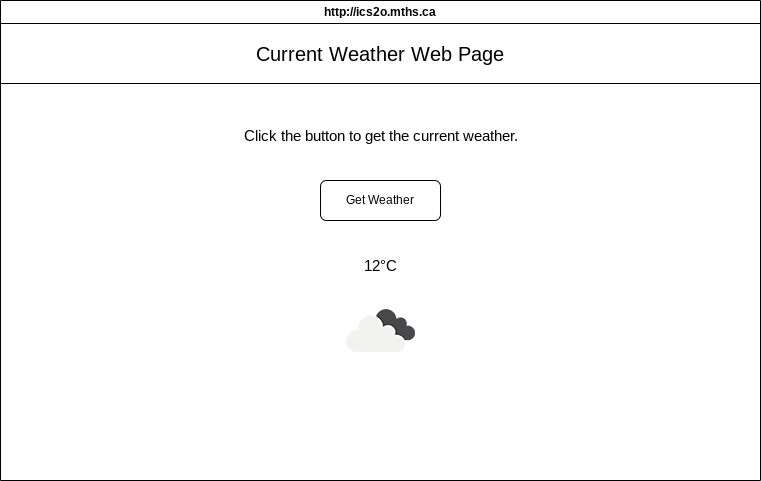
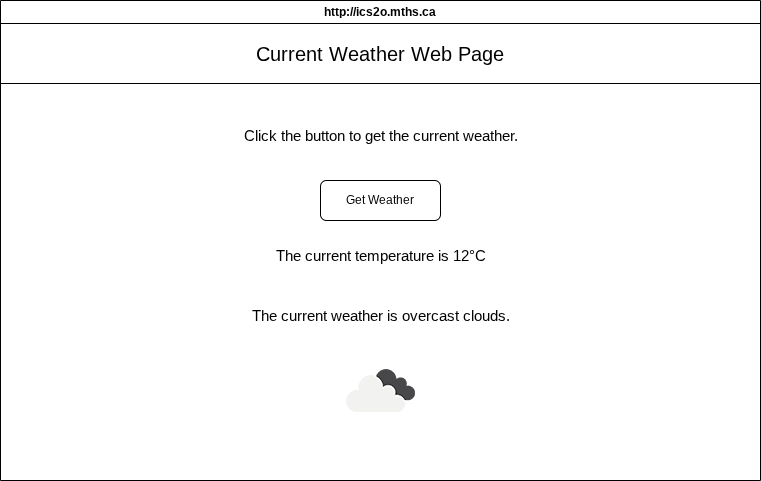
Created weather program

Changed region(s): [[0.3325, 0.6237, 0.6649, 0.7173], [0.3627, 0.499, 0.6347, 0.5613], [0.4836, 0.7484, 0.544, 0.842]]

diff --git a/index.html b/index.html
@@ -1,9 +1,50 @@
 <!DOCTYPE html>
-<html>
-  <head>
-    <title>Title</title>
-  </head>
-  <body>
-    <p>Paragraph</p>
-  </body>
+<!-- ICS2O-Unit6-03-JS -->
+<html lang="en-ca">
+
+<head>
+  <meta charset="utf-8" />
+  <meta name="description" content="Current Weather Web Page" />
+  <meta name="keywords" content="mths, icd2o" />
+  <meta name="author" content="Bain Liao" />
+  <meta name="viewport" content="width=device-width, initial-scale=1.0" />
+  <link rel="stylesheet" href="https://fonts.googleapis.com/icon?family=Material+Icons" />
+  <link rel="stylesheet" href="https://code.getmdl.io/1.3.0/material.light_blue-orange.min.css" />
+  <link rel="stylesheet" href="./css/style.css" />
+  <link rel="apple-touch-icon" sizes="180x180" href="./apple-touch-icon.png" />
+  <link rel="icon" type="image/png" sizes="32x32" href="./favicon-32x32.png" />
+  <link rel="icon" type="image/png" sizes="16x16" href="./favicon-16x16.png" />
+  <link rel="manifest" href="./site.webmanifest" />
+  <title>Current Weather Web Page</title>
+</head>
+
+<body>
+  <script defer src="https://code.getmdl.io/1.3.0/material.min.js"></script>
+  <script src="./js/script.js"></script>
+  <div class="mdl-layout mdl-js-layout mdl-layout--fixed-header">
+    <header class="mdl-layout__header">
+      <div class="mdl-layout__header-row">
+        <span class="mdl-layout-title">Current Weather Web Page</span>
+      </div>
+    </header>
+    <main class="mdl-layout__content">
+      <div class="page-content">Click the button to get the current weather.
+      <br />
+      <br />
+        <form action="#">
+          <!-- Accent-colored raised button with ripple -->
+          <button class="mdl-button mdl-js-button mdl-button--raised mdl-js-ripple-effect mdl-button--accent"
+            onclick="getWeather()" type="button">
+            Get Weather
+          </button>
+        </form>
+      </div>
+      <br />
+      <div class="page-content">
+        <div id="current-weather"></div>
+      </div>
+    </main>
+  </div>
+</body>
+
 </html>

diff --git a/js/script.js b/js/script.js
@@ -1,5 +1,42 @@
 // Copyright (c) 2020 Mr. Coxall All rights reserved
 //
-// Created by: Mr. Coxall
-// Created on: Sep 2020
+// Created by: Bain Liao
+// Created on: May 2025
 // This file contains the JS functions for index.html
+
+"use strict"
+
+/**
+ * This function gets the Weather.
+ * The "async" is there because it will take time for the internet to return the value
+ */
+async function getWeather() {
+  // the "try" is here because the internet may not be working
+  // it is like an "if ... else" statement"
+  try {
+    const resultJSON = await fetch(
+      "https://api.openweathermap.org/data/2.5/weather?lat=45.4211435&lon=-75.6900574&appid=fe1d80e1e103cff8c6afd190cad23fa5"
+    )
+    const jsonData = await resultJSON.json()
+    console.log(jsonData)
+    const weatherDescription = jsonData.weather[0].description
+    const weatherIconId = jsonData.weather[0].icon
+    const weatherIconUrl =
+      "https://openweathermap.org/img/wn/" + weatherIconId + "@2x.png"
+    const currentWeatherKelvin = jsonData.main.temp
+    const currentWeatherCelcius = currentWeatherKelvin - 273.15
+
+    // output
+    document.getElementById("current-weather").innerHTML =
+      "<p> The current temperature is " +
+      currentWeatherCelcius.toFixed(0) +
+      "°C. </p> </br> <p> The current weather is " +
+      weatherDescription +
+      ". </br> <img src =" +
+      weatherIconUrl +
+      " alt='Weather Icon'>"
+  } catch (error) {
+    // If an error has occured
+    document.getElementById("current-weather").innerHTML = "Sorry, an error has occured. Please try again later."
+  }
+}

diff --git a/css/style.css b/css/style.css
@@ -1,4 +1,37 @@
-/* Created by: Mr. Coxall
-* Created on: Sep 2020
+/* Created by: Bain Liao
+* Created on: Apr 2025
 * This file contains the CSS for index.html
 */
+
+.mdl-layout__header-row {
+  justify-content: center;
+  padding: 0;
+}
+
+.mdl-layout__content {
+  padding-left: 15pt;
+  padding-right: 15pt;
+  padding-top: 15pt;
+}
+
+.mdl-textfield__error {
+  color: #F00;
+}
+
+.page-content {
+  color: #000;
+  font-family: "Times New Roman", Times, monospace;
+  font-size: 1.25rem;
+  text-align: center;
+  display: block;
+  width: 100%;
+}
+
+body {
+  background-color: #a0dfe4;
+}
+
+img {
+  height: 100px;
+  width: 100px;
+}

diff --git a/README.md b/README.md
@@ -1,11 +1,11 @@
 [![Open in Codespaces](https://classroom.github.com/assets/launch-codespace-2972f46106e565e64193e422d61a12cf1da4916b45550586e14ef0a7c637dd04.svg)](https://classroom.github.com/open-in-codespaces?assignment_repo_id=19587110)
 # ICS2O ⇢ Unit #6-03
 
-[![Mr Coxall's Super Linter](https://github.com/<OWNER>/<REPOSITORY>/workflows/Mr%20Coxall's%20Super%20Linter/badge.svg)](https://github.com/<OWNER>/<REPOSITORY>/actions)
+[![Mr Coxall's Super Linter](https://github.com/MTHS-ICD2O-1-2024/ICD2O-Unit-6-03-bain-liao-1/workflows/Mr%20Coxall's%20Super%20Linter/badge.svg)](https://github.com/MTHS-ICD2O-1-2024/ICD2O-Unit-6-03-bain-liao-1/actions)
 
-[![Deploy Pages](https://github.com/<OWNER>/<REPOSITORY>/workflows/Deploy%20Pages/badge.svg)](https://github.com/<OWNER>/<REPOSITORY>/actions)
+[![Deploy Pages](https://github.com/MTHS-ICD2O-1-2024/ICD2O-Unit-6-03-bain-liao-1/workflows/Deploy%20Pages/badge.svg)](https://github.com/MTHS-ICD2O-1-2024/ICD2O-Unit-6-03-bain-liao-1/actions)
 
-This site can be found at: [https://<OWNER>.github.io/<REPOSITORY>](https://<OWNER>.github.io/<REPOSITORY>)
+This site can be found at: [https://MTHS-ICD2O-1-2024.github.io/ICD2O-Unit-6-03-bain-liao-1](https://MTHS-ICD2O-1-2024.github.io/ICD2O-Unit-6-03-bain-liao-1)
 
 ---
 
